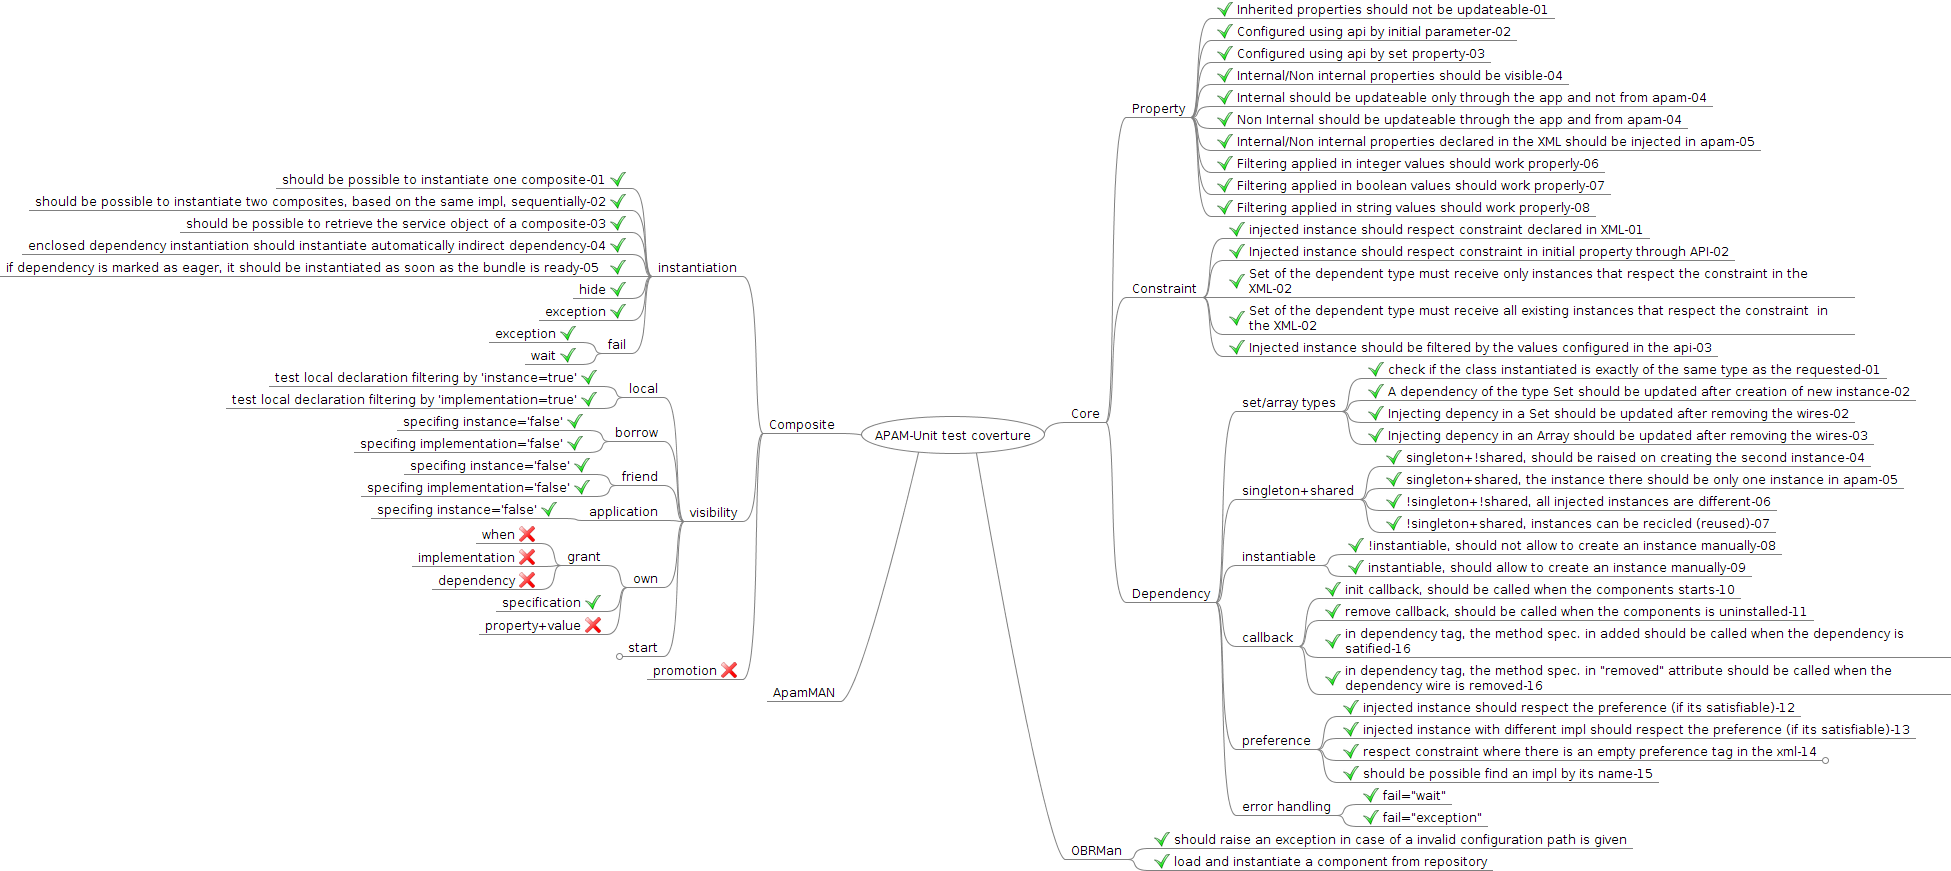
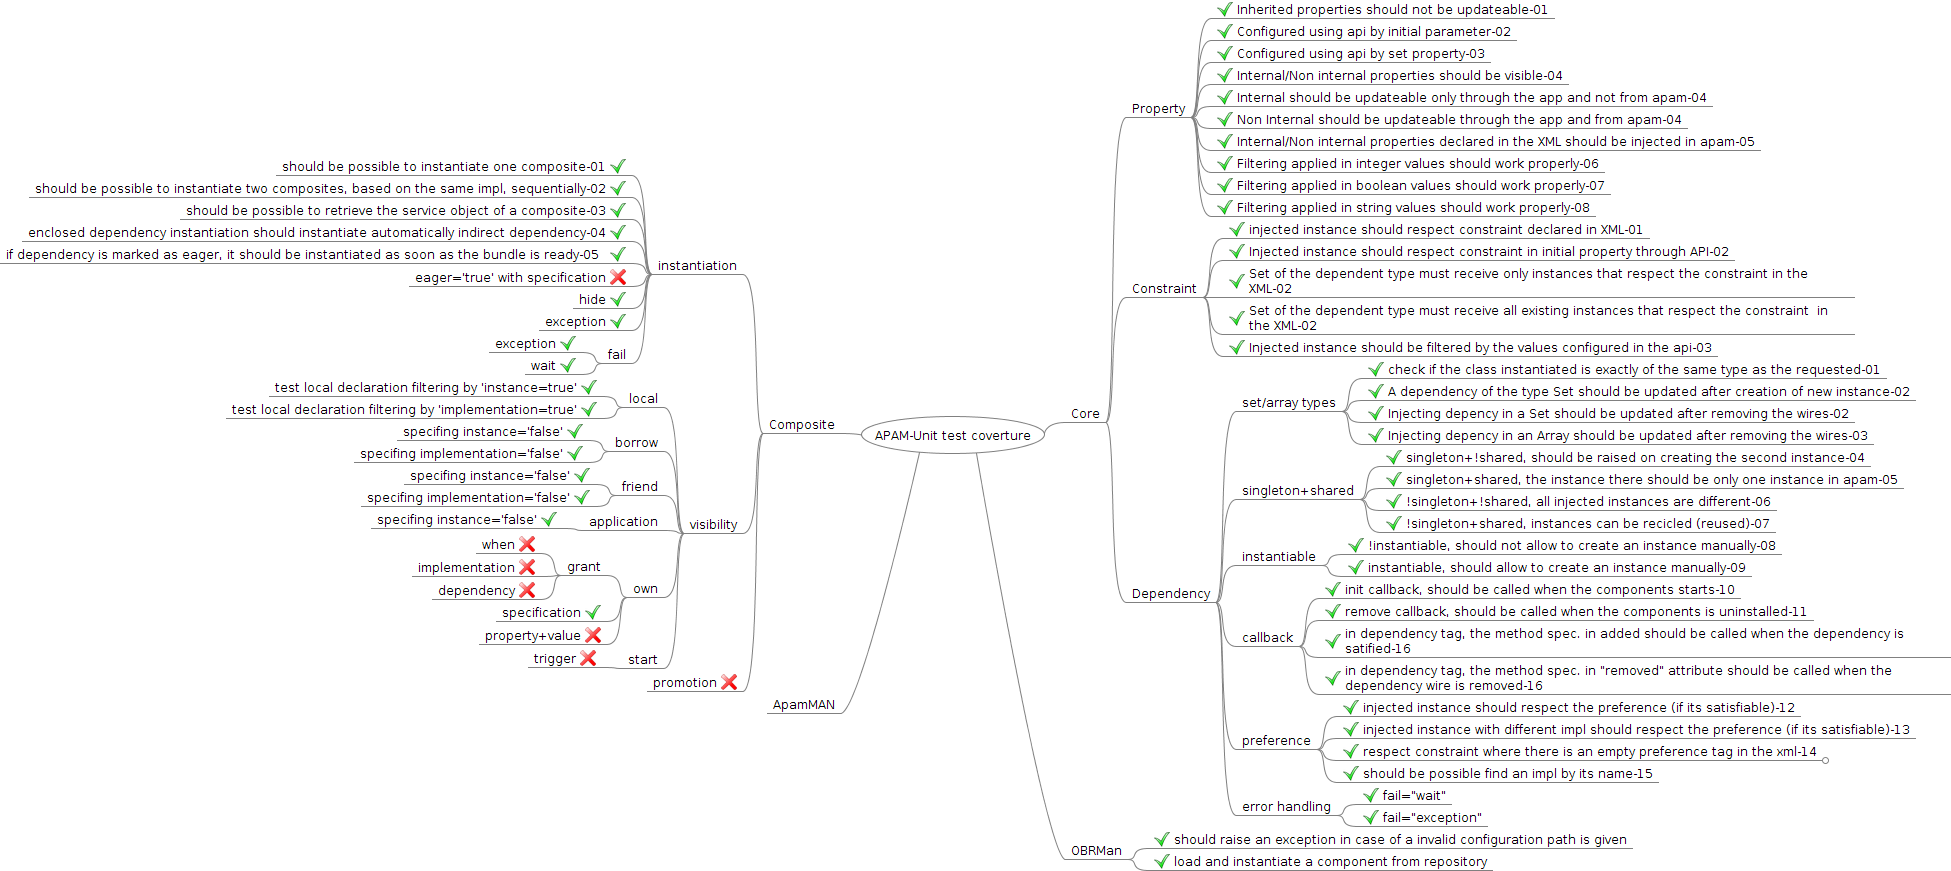
new adaptation to eager test

Changed region(s): [[0.0, 0.186, 0.4305, 0.837]]

diff --git a/tests/services/pax-test/src/test/java/fr/imag/adele/apam/test/testcases/DynamanDependentTest.java b/tests/services/pax-test/src/test/java/fr/imag/adele/apam/test/testcases/DynamanDependentTest.java
@@ -1,25 +1,28 @@
 package fr.imag.adele.apam.test.testcases;
 
-import fr.imag.adele.apam.*;
-import fr.imag.adele.apam.pax.test.device.DeadsManSwitch;
-import fr.imag.adele.apam.pax.test.iface.device.Eletronic;
-import fr.imag.adele.apam.pax.test.impl.FailException;
-import fr.imag.adele.apam.pax.test.impl.S2Impl;
-import fr.imag.adele.apam.pax.test.impl.S3GroupAImpl;
-import fr.imag.adele.apam.pax.test.impl.device.GenericSwitch;
-import fr.imag.adele.apam.pax.test.impl.device.HouseMeterSwitch;
-import fr.imag.adele.apam.pax.test.impl.device.PhilipsSwitch;
-import fr.imag.adele.apam.tests.helpers.ExtensionAbstract;
+import static org.ops4j.pax.exam.CoreOptions.mavenBundle;
+
+import java.util.HashMap;
+import java.util.List;
+
 import junit.framework.Assert;
+
 import org.junit.Test;
 import org.junit.runner.RunWith;
 import org.ops4j.pax.exam.Option;
 import org.ops4j.pax.exam.junit.JUnit4TestRunner;
 
-import java.util.HashMap;
-import java.util.List;
-
-import static org.ops4j.pax.exam.CoreOptions.mavenBundle;
+import fr.imag.adele.apam.CST;
+import fr.imag.adele.apam.Composite;
+import fr.imag.adele.apam.CompositeType;
+import fr.imag.adele.apam.Implementation;
+import fr.imag.adele.apam.Instance;
+import fr.imag.adele.apam.pax.test.iface.device.Eletronic;
+import fr.imag.adele.apam.pax.test.impl.FailException;
+import fr.imag.adele.apam.pax.test.impl.S2Impl;
+import fr.imag.adele.apam.pax.test.impl.S3GroupAImpl;
+import fr.imag.adele.apam.tests.helpers.Constants;
+import fr.imag.adele.apam.tests.helpers.ExtensionAbstract;
 
 @RunWith(JUnit4TestRunner.class)
 public class DynamanDependentTest extends ExtensionAbstract {
@@ -179,9 +182,14 @@ public class DynamanDependentTest extends ExtensionAbstract {
 
 		auxListInstances("instances existing before the test-");
 
-		Instance instance = ct1.createInstance(null,
+		Composite instanceComposite = (Composite)ct1.createInstance(null,
 				new HashMap<String, String>());
 
+		Implementation implS2=CST.apamResolver.findImplByName(
+				null, "fr.imag.adele.apam.pax.test.impl.S2Impl");
+		
+		Instance instance=implS2.createInstance(instanceComposite, null);
+		
 		Assert.assertTrue(String.format(message,
 				"Although, the test failed to instantiate the composite"),
 				instance != null);
@@ -189,9 +197,14 @@ public class DynamanDependentTest extends ExtensionAbstract {
 		//Force injection (for debuggin purposes)
 		//S2Impl im=(S2Impl)instance.getServiceObject();
 		//im.getDeadMansSwitch();
-
-		List<Instance> pool = auxLookForInstanceOf(PhilipsSwitch.class.getCanonicalName());
-
+		
+		apam.waitForIt(Constants.CONST_WAIT_TIME);
+		
+		List<Instance> pool = auxLookForInstanceOf("fr.imag.adele.apam.pax.test.impl.device.PhilipsSwitch",
+				"fr.imag.adele.apam.pax.test.impl.device.GenericSwitch",
+				"fr.imag.adele.apam.pax.test.impl.device.HouseMeterSwitch",
+				"fr.imag.adele.apam.pax.test.device.DeadsManSwitch");
+		
 		auxListInstances("instances existing after the test-");
 
 		Assert.assertTrue(

diff --git a/documentations/technical/test-coverture/APAM-UnitTest-Coverture-OnFreeMindApp.mm b/documentations/technical/test-coverture/APAM-UnitTest-Coverture-OnFreeMindApp.mm
@@ -1,6 +1,6 @@
 <map version="0.9.0">
 <!-- To view this file, download free mind mapping software FreeMind from http://freemind.sourceforge.net -->
-<node CREATED="1353065971613" ID="ID_856281372" MODIFIED="1353076828406" TEXT="APAM-Unit test coverture">
+<node CREATED="1353065971613" ID="ID_856281372" MODIFIED="1354182410062" TEXT="APAM-Unit test coverture">
 <node CREATED="1353065995318" ID="ID_866107605" MODIFIED="1353066274405" POSITION="right" TEXT="Core">
 <node CREATED="1353066005446" ID="ID_776905123" MODIFIED="1353066634176" TEXT="Property">
 <node CREATED="1353066218822" ID="ID_476104344" MODIFIED="1353071117012" TEXT="Inherited properties should not be updateable-01">
@@ -146,6 +146,9 @@
 <node CREATED="1353406252448" ID="ID_868172689" MODIFIED="1353412015763" TEXT="if dependency is marked as eager, it should be instantiated as soon as the bundle is ready-05">
 <icon BUILTIN="button_ok"/>
 </node>
+<node CREATED="1354189278496" ID="ID_1165923695" MODIFIED="1354189297127" TEXT="eager=&apos;true&apos; with specification">
+<icon BUILTIN="button_cancel"/>
+</node>
 <node CREATED="1353494079795" ID="ID_1345503897" MODIFIED="1354019770015" TEXT="hide">
 <icon BUILTIN="button_ok"/>
 </node>
@@ -210,7 +213,7 @@
 <icon BUILTIN="button_cancel"/>
 </node>
 </node>
-<node CREATED="1353942099737" FOLDED="true" ID="ID_324659060" MODIFIED="1354102675201" TEXT="start">
+<node CREATED="1353942099737" ID="ID_324659060" MODIFIED="1354189660842" TEXT="start">
 <node CREATED="1353942275194" ID="ID_535914399" MODIFIED="1353942307053" TEXT="trigger">
 <icon BUILTIN="button_cancel"/>
 </node>
